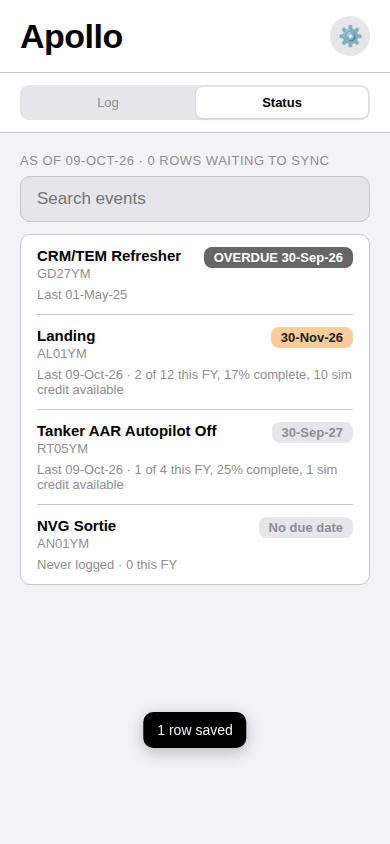
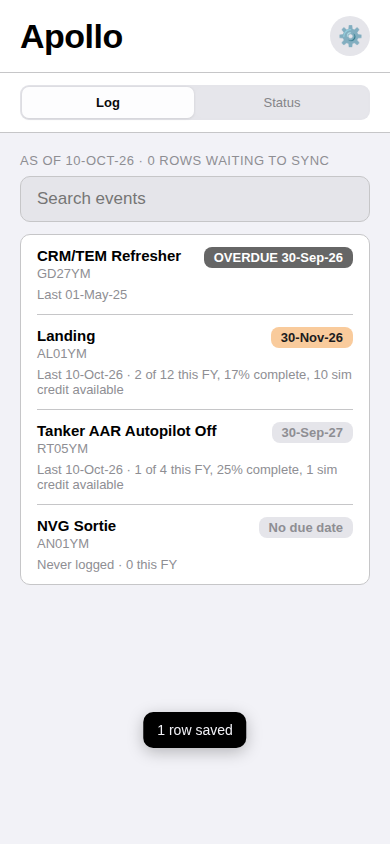
Audit PR 2: the app does no date math, and loses what it no longer needs (#23)
The Status badge takes its color band from the row the script sends
(the same list that colors the sheet), so dueBand and daysBetween leave
the app. The legacy service-worker self-heal script and the redundant
iOS meta are gone, as are three unused stylesheet rules. The Log list
says "No events match." when a search finds nothing. Everything the app
says is sentence case: Send feedback, Mission number, All dates are
Zulu; the rule is in the spec. Smoke test: stale slide wait removed,
band classes and the Log empty state asserted. Version 2026.10.10.1.

Claude-Session: https://claude.ai/code/session_01UDrq9cWrJXfmfhJcy2TJsG

diff --git a/app/app.js b/app/app.js
@@ -10,7 +10,7 @@
  */
 'use strict';
 
-var APP_VERSION = '2026.10.09.4';
+var APP_VERSION = '2026.10.10.1';
 var STORAGE = { settings: 'apollo.settings', data: 'apollo.data', queue: 'apollo.queue' };
 
 // ---------------------------------------------------------------------------
@@ -39,24 +39,6 @@ function formatDisplayDate(iso) {
   if (!isIsoDate(iso)) return iso == null ? '' : String(iso);
   var p = iso.split('-');
   return p[2] + '-' + MONTHS[Number(p[1]) - 1] + '-' + p[0].slice(2);
-}
-
-/** Whole days from a to b, both 'YYYY-MM-DD', on UTC calendar numbers. Display only. */
-function daysBetween(a, b) {
-  var pa = a.split('-').map(Number), pb = b.split('-').map(Number);
-  return Math.round((Date.UTC(pb[0], pb[1] - 1, pb[2]) - Date.UTC(pa[0], pa[1] - 1, pa[2])) / 86400000);
-}
-
-/** Color band for a summary row, the same bands as the sheet's Due Date column. */
-function dueBand(row, today) {
-  if (row['Overdue'] === 'YES') return 'overdue';
-  var due = row['Due Date'];
-  if (!isIsoDate(due) || !isIsoDate(today)) return '';
-  var d = daysBetween(today, due);
-  if (d <= 30) return 'd30';
-  if (d <= 60) return 'd60';
-  if (d <= 90) return 'd90';
-  return '';
 }
 
 /** 0 overdue, 1 CHECK LABEL, 2 has a due date, 3 no due date. */
@@ -280,9 +262,11 @@ if (typeof document !== 'undefined') {
       var events = filterEvents(all, ui.query);
       var box = $('events');
       box.textContent = '';
-      if (!all.length) {
+      if (!events.length) {
         var ul = el('ul');
-        ul.appendChild(el('li', 'empty', data.asOf ? 'No events in this config tab.' : 'No config yet. Open Settings, enter the web app URL and token, then Sync now.'));
+        var why = !data.asOf ? 'No config yet. Open Settings, enter the web app URL and token, then Sync now.'
+          : !all.length ? 'No events in this config tab.' : 'No events match.';
+        ul.appendChild(el('li', 'empty', why));
         box.appendChild(ul);
       }
       // One card per RTM group, no heading: the prefix means nothing to a user.
@@ -367,9 +351,9 @@ if (typeof document !== 'undefined') {
         list.appendChild(el('li', 'empty', 'No events match.'));
         return;
       }
-      var today = todayUtc();
       rows.forEach(function (r) {
-        var band = dueBand(r, today);
+        // The band comes with the row from the script, the same list that colors the sheet.
+        var band = r.band || '';
         var li = el('li', 'item');
         var head = el('div', 'head');
         var left = el('div', 'label');
@@ -657,8 +641,6 @@ if (typeof module !== 'undefined' && module.exports) {
     todayUtc: todayUtc,
     isIsoDate: isIsoDate,
     formatDisplayDate: formatDisplayDate,
-    daysBetween: daysBetween,
-    dueBand: dueBand,
     statusGroup: statusGroup,
     sortSummary: sortSummary,
     eventsForMode: eventsForMode,

diff --git a/app/index.html b/app/index.html
@@ -5,7 +5,6 @@
 <meta name="viewport" content="width=device-width, initial-scale=1">
 <title>Apollo</title>
 <meta name="theme-color" content="#ffffff">
-<meta name="apple-mobile-web-app-capable" content="yes">
 <meta name="apple-mobile-web-app-title" content="Apollo">
 <link rel="manifest" href="manifest.webmanifest">
 <link rel="icon" href="icon.svg" type="image/svg+xml">
@@ -43,7 +42,7 @@
             <div class="section-title">Sortie</div>
             <div class="card">
               <div class="input-group" id="mission-field">
-                <label for="mission">Mission Number</label>
+                <label for="mission">Mission number</label>
                 <input id="mission" type="text" autocomplete="off" autocapitalize="characters" spellcheck="false" placeholder="e.g. 0123">
               </div>
               <div class="input-group last">
@@ -127,26 +126,15 @@
         <div class="section-title">Help</div>
         <div class="card">
           <a class="link" href="guide/" target="_blank" rel="noopener">Setup guide</a>
-          <a class="link" href="mailto:135crewdog.github@gmail.com?subject=Apollo%20App%20Feedback">Send Feedback</a>
+          <a class="link" href="mailto:135crewdog.github@gmail.com?subject=Apollo%20App%20Feedback">Send feedback</a>
         </div>
       </div>
-      <p class="version">Apollo v<span id="version"></span> · all dates are Zulu</p>
+      <p class="version">Apollo v<span id="version"></span> · All dates are Zulu</p>
     </div>
   </div>
 
 </div>
 <div id="toast" class="toast hidden" role="status"></div>
-<script>
-// If an older service worker handed this app shell to a different page's address (the
-// guide, for example), let the updated worker take over and load the right page.
-(function () {
-  var here = location.pathname;
-  var isAppRoot = /\/(index\.html)?$/.test(here) && !/\/guide\/(index\.html)?$/.test(here);
-  if (isAppRoot || !('serviceWorker' in navigator)) return;
-  navigator.serviceWorker.addEventListener('controllerchange', function () { location.reload(); });
-  navigator.serviceWorker.getRegistration().then(function (r) { if (r) r.update(); });
-})();
-</script>
 <script src="app.js"></script>
 </body>
 </html>

diff --git a/tests/browser/smoke.js b/tests/browser/smoke.js
@@ -54,8 +54,7 @@ async function main() {
   // The offline step makes the browser log its own failed fetch; that is expected.
   page.on('console', (m) => { if (m.type() === 'error' && !/Failed to load resource/.test(m.text())) errors.push(m.text()); });
   const shots = process.argv[2];
-  // Panels slide for 300 ms, so let a screenshot wait for the transition to finish.
-  const shot = async (name, p = page) => { if (shots) { await p.waitForTimeout(400); await p.screenshot({ path: path.join(shots, name + '.png') }); } };
+  const shot = async (name, p = page) => { if (shots) await p.screenshot({ path: path.join(shots, name + '.png') }); };
 
   try {
     await page.goto(appUrl);
@@ -88,6 +87,7 @@ async function main() {
     assert.deepEqual(names, ['Landing', 'Tanker AAR Autopilot Off', 'CRM/TEM Refresher', 'NVG Sortie'], 'task name leads');
     const dues = await page.locator('#summary .item .due').allTextContents();
     assert.deepEqual(dues, ['OVERDUE', 'OVERDUE', 'OVERDUE 30-Sep-26', 'No due date'], 'due badges in DD-Mmm-YY');
+    assert.deepEqual(await page.locator('#summary .item .due').evaluateAll((els) => els.map((e) => e.className)), ['due band-overdue', 'due band-overdue', 'due band-overdue', 'due'], 'bands from the payload');
     await shot('status-before');
 
     // Status search narrows by name or ID, and clears back to the full list.
@@ -112,6 +112,8 @@ async function main() {
     assert.equal(await page.locator('#events .event').count(), 3, 'all flying events in Flight');
     assert.deepEqual(await page.locator('#events ul').evaluateAll((els) => els.map((u) => u.dataset.group)), ['AL', 'AN', 'RT'], 'one card per Task ID prefix, no headings');
     assert.equal(await page.locator('#events .group').count(), 0, 'no group headings');
+    await page.fill('#search', 'zzz');
+    assert.equal(await page.textContent('#events .empty'), 'No events match.', 'Log search empty state');
     await page.fill('#search', 'land');
     assert.equal(await page.locator('#events .event').count(), 1);
     assert.deepEqual(await page.locator('#events ul').evaluateAll((els) => els.map((u) => u.dataset.group)), ['AL'], 'only groups with matches keep a card');

diff --git a/tests/app.test.js b/tests/app.test.js
@@ -31,22 +31,6 @@ test('formatDisplayDate: DD-Mmm-YY for humans, other values untouched', () => {
   assert.equal(app.formatDisplayDate('yesterday'), 'yesterday');
 });
 
-test('dueBand matches the sheet bands', () => {
-  const row = (due, overdue) => ({ 'Due Date': due, 'Overdue': overdue || '' });
-  assert.equal(app.dueBand(row('', 'YES'), TODAY), 'overdue');
-  assert.equal(app.dueBand(row('2026-06-30', 'YES'), TODAY), 'overdue');
-  assert.equal(app.dueBand(row('2026-10-31'), TODAY), 'd30');
-  assert.equal(app.dueBand(row('2026-11-06'), TODAY), 'd30');
-  assert.equal(app.dueBand(row('2026-11-07'), TODAY), 'd60');
-  assert.equal(app.dueBand(row('2026-12-06'), TODAY), 'd60');
-  assert.equal(app.dueBand(row('2026-12-31'), TODAY), 'd90');
-  assert.equal(app.dueBand(row('2027-01-05'), TODAY), 'd90');
-  assert.equal(app.dueBand(row('2027-01-06'), TODAY), '');
-  assert.equal(app.dueBand(row('2027-09-30'), TODAY), '');
-  assert.equal(app.dueBand(row(''), TODAY), '');
-  assert.equal(app.dueBand(row('CHECK LABEL'), TODAY), '');
-});
-
 test('sortSummary: overdue first, then CHECK LABEL, then by due date, then no due date; ties keep config order', () => {
   const rows = [
     { 'Task ID': 'A', 'Due Date': '2027-09-30', 'Overdue': '' },

diff --git a/app/style.css b/app/style.css
@@ -7,9 +7,7 @@
   --text: #000000;
   --text2: #8e8e93;
   --fill: #e5e5ea;
-  --fill2: #d1d1d6;
   --destructive: #ff3b30;
-  --success: #34c759;
   --warning: #8a6400;
   --warning-bg: #fff9e6;
   --warning-border: rgba(255, 204, 0, 0.5);
@@ -33,7 +31,6 @@
   --text: #ffffff;
   --text2: #98989d;
   --fill: #48484a;
-  --fill2: #3a3a3c;
   --destructive: #ff453a;
   --warning: #ffd60a;
   --warning-bg: #3d2e00;
@@ -144,7 +141,6 @@ label.check input { width: 20px; height: 20px; accent-color: var(--red); }
 }
 .btn.primary { background: var(--red); color: var(--on-accent); }
 .btn.secondary { background: var(--fill); color: var(--text); }
-.btn.success { background: var(--success); color: #ffffff; }
 .btn.outline-destructive { background: transparent; border: 1px solid var(--destructive); color: var(--destructive); }
 .btn:disabled { opacity: 0.5; cursor: default; }
 .btn-row { display: flex; gap: 12px; }

diff --git a/app/sw.js b/app/sw.js
@@ -1,7 +1,7 @@
 /* Apollo service worker: caches the app shell so the app opens offline.
  * Bump VERSION on every change to any file in app/, or devices keep the old copy.
  * API calls go to another origin and are never intercepted. */
-var VERSION = 'apollo-2026.10.09.4';
+var VERSION = 'apollo-2026.10.10.1';
 var SHELL = ['./', './index.html', './app.js', './style.css', './manifest.webmanifest', './icon.svg', './icon-192.png', './icon-512.png'];
 
 self.addEventListener('install', function (event) {

diff --git a/CLAUDE.md b/CLAUDE.md
@@ -233,10 +233,10 @@ Every response is JSON. Apps Script cannot set HTTP status codes, so errors come
 
 **An ordinary web page.** The app is a page the browser scrolls, not an app shell. The browser owns the viewport, the status bar, the home indicator, the toolbar, the keyboard and zoom; nothing in the app is sized to the viewport height or to a safe-area inset, and the page background is the app background, so there is nothing behind the app to show through on any device. (A fixed shell once showed a band of page beneath the app on an installed iOS copy; every device would have had its own version of that.) Content sits in one column, at most 720px wide, the same reading width as the guide: a portrait phone fills it, a landscape phone, an iPad or a desktop centers it. Header and tabs scroll away with the page like any web page. The one thing that sticks is the Save bar, at the bottom of the Log section, because the event list is long and Save must stay one tap away; it uses standard sticky positioning and settles into place after the list at the end of the page.
 
-**Design system.** The visual language follows the user's Show Time PWA (github.com/135crewdog/showtime), an iOS-style system: system font stack, antialiased; a white (dark: `#1c1c1e`) header with the 34px bold title on the left and a round 40px gear button on the right; an iOS segmented control under the header switching Log and Status, with a swipe doing the same (horizontal movement must dominate, 50px threshold; the switch is immediate, there is no slide); content in sections with 13px uppercase letter-spaced gray titles over rounded 10px cards with a 1px border; 17px inputs on a gray fill with 10px radius; full-width 12px-radius buttons; Settings as its own screen with "Done" on the left and a centered title; a Light/Dark/Auto theme setting that also sets the page's theme color, which colors the browser's and the installed app's status bar; Apple's gray palette for backgrounds, borders, fills and secondary text (`#f2f2f7`, `#ffffff`, `#c6c6c8`, `#8e8e93`, `#e5e5ea`; dark `#000000`, `#1c1c1e`, `#38383a`, `#98989d`, `#48484a`). Where Show Time uses iOS blue, Apollo uses the due-date palette: red `#EA9999` for primary buttons, orange `#F9CB9C` for the active kind and a picked stepper, yellow `#FFF2CC` and gray `#666666` where the bands already apply, with dark text on all of them. Every list row leads with the Task Name and puts the Task ID beneath it in gray, on Log and Status alike; search matches either. Every date a human reads in the app is `DD-Mmm-YY` (`07-Oct-26`): due dates, Last Accomplished, "As of", last sync, and the date field, which shows that label over the native picker while its value stays `YYYY-MM-DD`.
+**Design system.** The visual language follows the user's Show Time PWA (github.com/135crewdog/showtime), an iOS-style system: system font stack, antialiased; a white (dark: `#1c1c1e`) header with the 34px bold title on the left and a round 40px gear button on the right; an iOS segmented control under the header switching Log and Status, with a swipe doing the same (horizontal movement must dominate, 50px threshold; the switch is immediate, there is no slide); content in sections with 13px uppercase letter-spaced gray titles over rounded 10px cards with a 1px border; 17px inputs on a gray fill with 10px radius; full-width 12px-radius buttons; Settings as its own screen with "Done" on the left and a centered title; a Light/Dark/Auto theme setting that also sets the page's theme color, which colors the browser's and the installed app's status bar; Apple's gray palette for backgrounds, borders, fills and secondary text (`#f2f2f7`, `#ffffff`, `#c6c6c8`, `#8e8e93`, `#e5e5ea`; dark `#000000`, `#1c1c1e`, `#38383a`, `#98989d`, `#48484a`). Where Show Time uses iOS blue, Apollo uses the due-date palette: red `#EA9999` for primary buttons, orange `#F9CB9C` for the active kind and a picked stepper, yellow `#FFF2CC` and gray `#666666` where the bands already apply, with dark text on all of them. Every list row leads with the Task Name and puts the Task ID beneath it in gray, on Log and Status alike; search matches either. Everything the app says is sentence case (buttons, labels, hints, toasts, empty states, the version line); section titles are uppercase and letter-spaced as a visual device; proper nouns keep their capitals (Zulu, Task ID, Sim); the OVERDUE badge is a status flag drawn in capitals on purpose. Every date a human reads in the app is `DD-Mmm-YY` (`07-Oct-26`): due dates, Last Accomplished, "As of", last sync, and the date field, which shows that label over the native picker while its value stays `YYYY-MM-DD`.
 
 - **Log:** pick Flight, Sim or Ground. Flight needs a mission number and date. Sim needs a date and writes `SIM` as the mission number. Ground needs a date only. Then a searchable list of events from the matching config tab, each with + and −, in one card per RTM category (the first two characters of the Task ID; groups in the order they first appear in the config, events in config order within a group). The cards carry no heading: the prefix means nothing to a user, the gap between cards is the grouping. Save writes one row per tap. In Sim, events with 0% sim credit are not offered. The date defaults to the Zulu date. Flight refuses a mission number of `SIM`. Changing the kind clears the counts.
-- **Status:** the summary, overdue first, then by due date, with its "as of" date, the number of rows waiting to sync, the log check problems if there are any, and a search field that narrows the list by Task Name or Task ID (the same match as the Log search), so "when did I last do X?" is one search away. Order within the list: Overdue rows, then `CHECK LABEL` rows, then rows with a due date ascending, then rows with no due date; ties keep config order. Each row shows the Task Name over the Task ID, the due date as `DD-Mmm-YY` with the same color bands as the sheet's Due Date column, Last Accomplished or "Never logged", and the volume line when the event has one (`2 of 12 this FY, 17% complete, 10 sim credit available`).
+- **Status:** the summary, overdue first, then by due date, with its "as of" date, the number of rows waiting to sync, the log check problems if there are any, and a search field that narrows the list by Task Name or Task ID (the same match as the Log search), so "when did I last do X?" is one search away. Order within the list: Overdue rows, then `CHECK LABEL` rows, then rows with a due date ascending, then rows with no due date; ties keep config order. Each row shows the Task Name over the Task ID, the due date as `DD-Mmm-YY` colored by the `band` the row carries from the script (the same list that colors the sheet; the app does no date math), Last Accomplished or "Never logged", and the volume line when the event has one (`2 of 12 this FY, 17% complete, 10 sim credit available`).
 - **Settings:** its own screen, opened from the gear and closed with Done. Sections: Connection (web app URL, token, Show token, Save, Sync now, last sync and last error), Appearance (Theme: Light, Dark, Auto), Data (Clear local data, asks first; the workbook is never touched), Help (Setup guide, Send Feedback), and the version. The app opens on Settings until a URL and token are saved.
 
 **Sync.** Save puts the rows into the local queue as one batch with a fresh `batchId` and tries to sync at once. Sync sends queued batches in order with POST, then, if nothing was sent, refreshes with GET. It runs on load, after Save, when the browser comes back online, when the app becomes visible with rows waiting, and from Sync now. A network failure keeps the queue and says so; a `{ ok: false }` reply keeps the queue and shows the error. The payload from the last successful call is what Status shows.
